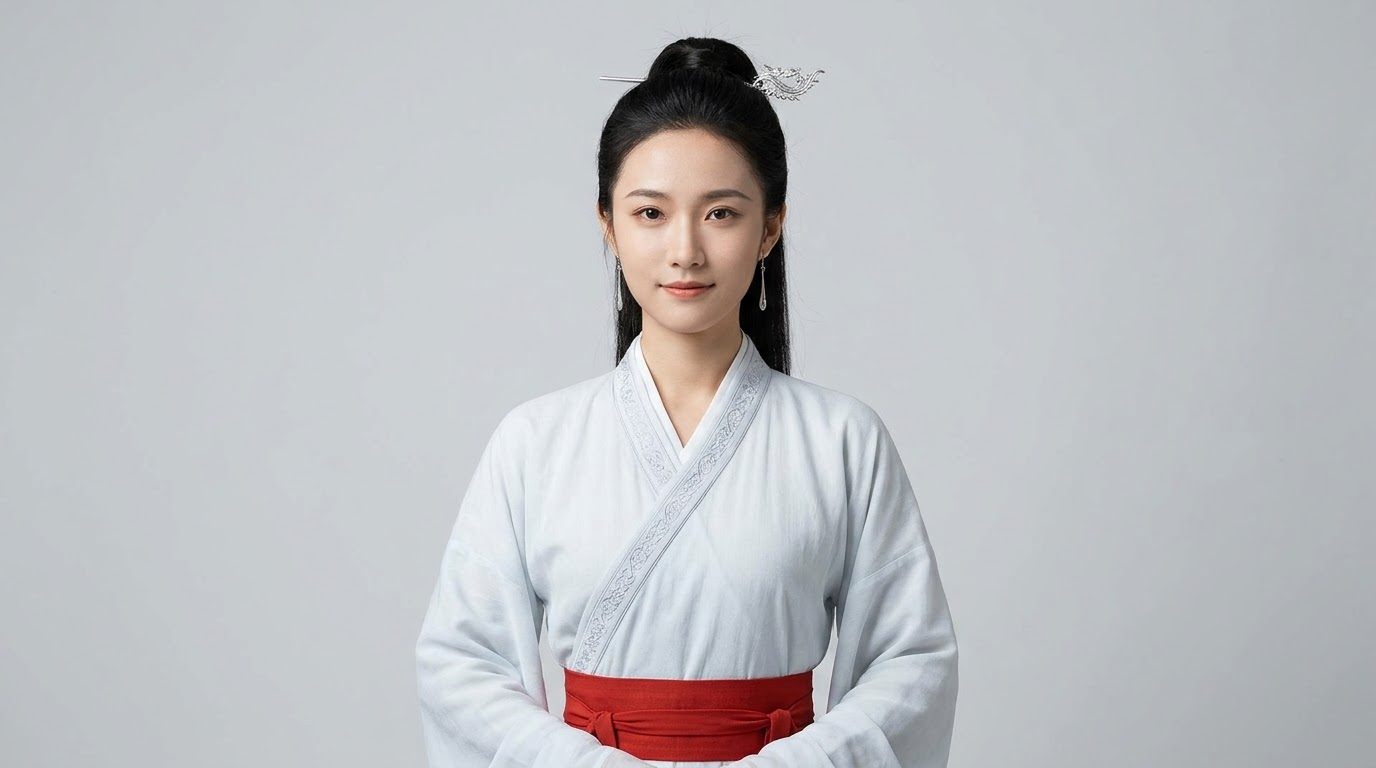
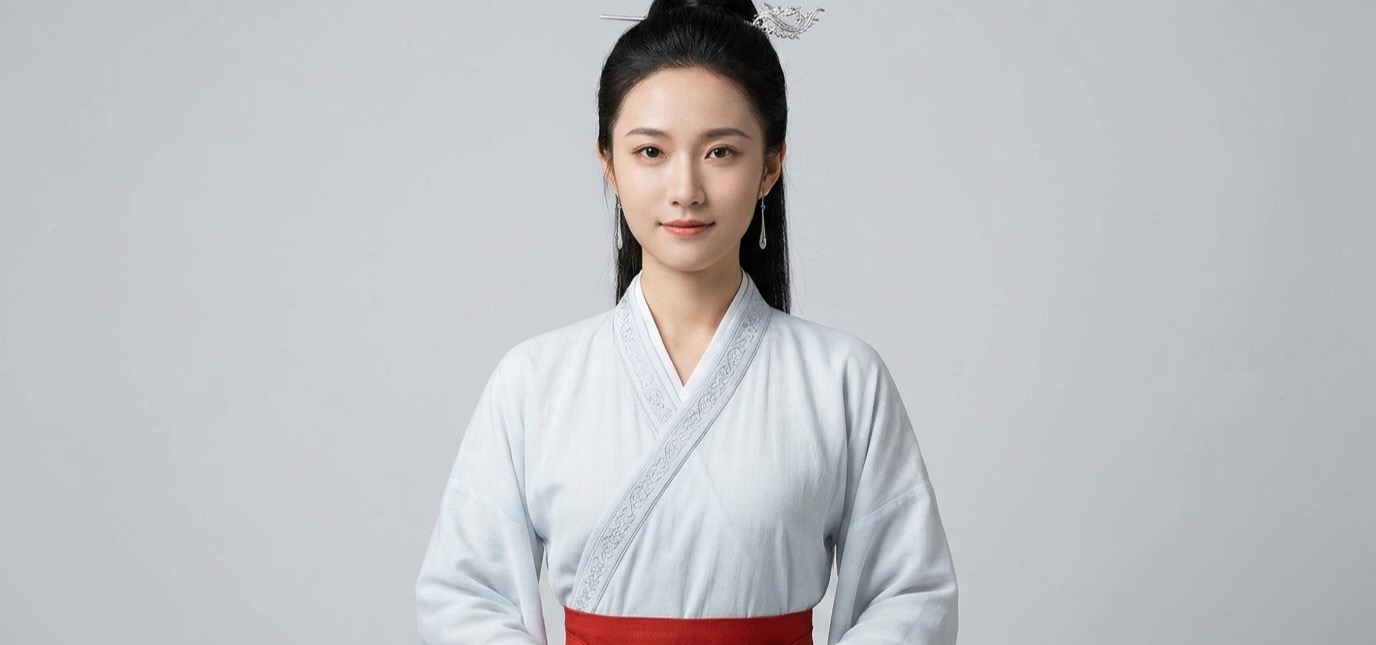
docs(test-log): v0.4 重写(旧轮退役) + inputs 参考图裁水印(84%高度, 原图备份)

Changed region(s): [[0.2812, 0.0, 0.7188, 1.0], [0.3125, 0.6512, 0.3438, 0.7442]]

diff --git a/docs/test-log.md b/docs/test-log.md
@@ -1,109 +1,21 @@
-# H3 测试数据册（test-log）
+# H3 测试数据册（test-log · v0.4 重写版 2026-11-22）
 
-> 用途：每次实测的时长/消耗/产物留档，_kernel 选型与成本模型的唯一数据源_。
+> 旧轮数据（D1'/D2' v2/PDD 时代）已随 v0.4 架构退役移除；历史见 git log 与 plan-nocomfy.md 归档节。
 > 记录纪律：跑完一条立刻补一行；会话收工（h3ctl down）后回填"会话 CU"。
-> CU 读数：colab status / 下站后余额差；耗时以 h3ctl gen 输出与 /status 为准。
 
 ## 字段说明
 
 | 字段 | 含义 |
 |---|---|
 | run | 会话内序号（首条=含模型装载，续条=热跑） |
-| 档案/臂 | weights_profile + 方案名（omni / pika / pdd / v2） |
-| 模式 | t2v / fl2v / ref2v |
-| 参数 | seed · 分辨率 · 帧数 · 参考图 |
-| 纯推理 | ComfyUI 采样耗时（/status progress 或日志 it/s × 步数） |
-| 端到端 | 提交→成片落地（含 TE 编码/VAE 解码） |
-| 会话 CU | 本次会话总消耗（下站后读数） |
+| 臂 | 配方（turbo8 / turbo4 / pika / …） |
+| 端到端 | 提交→成片落地（h3ctl gen 输出） |
+| 会话 CU | 本次会话总消耗（下站后读数；CLI 无余额接口时按时长估算） |
 
-## D1' 已归档数据（2026-11-22，详见 plan-nocomfy.md D1' 节）
+## v0.4 三模式多方实测（2026-11-22 · h3turbo 全抽屉一站 · A100-40GB）
 
-| run | 臂 | 模式 | 参数 | 纯推理 | 端到端 | 产物 |
-|---|---|---|---|---|---|---|
-| 1 | v2 | t2v | seed42 · 1344×768 · 124f | 103s | 236.5s（首条含装载） | outputs/d1shell_…/3.2MB |
-| 2 | pdd8 | t2v | 同上 | 103s | 312s（首条含装载） | outputs/d1pdd8_…/3.1MB |
-| 3 | pdd4 | t2v | 同上 | **47s** | ~2.2min | outputs/d1pdd4/4.7MB |
-| 会话 CU | — | — | — | — | **4.05** | 余额 168.32 |
-
-## D2'：ref2v 人物参考 A/B（Omni vs Pika，单档案分会话）
-
-> 统一条件：同人物参考图（ref_char_front.jpg + 可选侧脸）+ 场景图 · seed 42 ·
-> 1344×768 · 124f（5s）· ref_image_size=match · 同提示词。
-> 裁决维度：人物身份保持 / 服装细节 / 场景还原 / 运动自然度 / 音频。
-
-### 统一测试提示词（两臂逐字相同，2026-11-22 定稿 v2：国风人物 + 国风东方巨构）
-
-```
-subject_definitions:
-<Subject 1> is the person in <Picture 1>: fully_preserved face, black hair in an elegant updo with a silver phoenix hairpin, ivory-white hanfu robe with crimson waist sash.
-<Subject 2> is the setting in <Picture 2>: background_reference only, colossal oriental megastructure at golden hour.
-shot: The woman walks slowly forward along the wet stone steps, camera pushes in past her shoulder toward the pagoda, golden hour, cinematic.
-```
-
-### 会话 A：h3omni（OmniRef 8步 euler）· 2026-11-22 · gpu-a100-s-usc1c0-5eoi79afjnpa（A100-40GB）
-
-**启动分解（h3ctl up --wait h3omni h3ref）**：①建VM 45s → ②上传 15s → ③提交 3s →
-④服务就绪 7m04s（权重 55.2GB @ ~190MB/s，与装环境并行）→ ⑤隧道 20s → **总启动 8m06s**；
-gate 40GB 放行（门槛 34GB 修正后）；磁盘余量 236GB。
-（前置两次尝试失败：Colab 分配接口 503 三连 ×2 轮 + gate 70GB 误拦一次——已修，日志直出当场抓出）
-
-| run | 模式 | 参数 | 纯推理 | 端到端 | 会话 CU | 产物 | 备注 |
-|---|---|---|---|---|---|---|---|
-| 1 | ref2v | seed42 · 1344×768 · 124f · 2 参考图 | 采样至 95% 用 169s（含 Omni DiT 装载） | **4m00s**（job 238s） | 会话估 2.6 CU* | `outputs/__20261122_111623/omni_00001_.mp4` 3.56MB | 95%→100% 平台 70s = VAE 首装载+解码+编码段 |
-| 2 | ref2v | 同 seed42 重交 | —（同图缓存命中） | **7s** | 同上 | `outputs/omni_20261122_111715/` | ⚠ ComfyUI 同图缓存：同 seed 同输入秒回，非真实速度 |
-| 3 | ref2v | seed43（真实热跑） | 采样 138s | **2m19s**（139s） | 同上 | `outputs/omni_20261122_111959/omni_00002_.mp4` 3.16MB | 热跑基线 |
-
-### 会话 B：h3pika（Pika Flex 6步 lcm+ManualSigmas）· 同 VM 热切换（用户要求不关站对比）
-
-**切换分解（h3ctl switch h3pika h3ref）**：清 .setup_done → 增量下载 24GB（ref2va DiT 21.0GB +
-Pika LoRA 2.0GB，共享 TE/VAE 不重拉）→ symlink → 外壳重启 → **总切换 1m39s**，VM 不重建。
-（首版 switch 假成功一次：不清 marker 则 setup skip 不拉权重——已修）
-
-| run | 模式 | 参数 | 纯推理 | 端到端 | 会话 CU | 产物 | 备注 |
-|---|---|---|---|---|---|---|---|
-| 1 | ref2v | seed42 · 同上全同 | 采样至 95% 用 165s（含 ref2va DiT+LoRA 装载；VAE 已热=Omni 首跑遗产） | **2m56s**（176s） | 同会话总计 | `outputs/pika_20261122_112729/pika_00001_.mp4` 2.36MB | 解码段仅 10s（VAE 显存缓存命中） |
-| 2 | ref2v | seed43（真实热跑） | 采样 111s | **1m52s**（112s） | 同上 | `outputs/pika_20261122_112939/pika_00002_.mp4` 2.23MB | 6步 LCM vs Omni 8步：采样快 ~20% |
-
-> \* 会话 CU 估算：11:01–11:30 共 29min × 5.4 CU/h ≈ 2.6 CU（CLI 无余额接口，待用户网页核对回填；
-> 启动 8m + 切换 2m + 生成 10m + 余为调试/等待）。
-
-### 会话 C：h3pdd（PDD Ref2VA 4步）· 新 VM gpu-a100-s-usw4b0-2yakgvyye27x5（A100-40GB）
-
-**启动分解**：①建VM 19s → ②上传 45s → ③提交 3s → ④服务就绪 6m23s（权重 79.5GB：
-fl2va+ref2va 双底模 + PDD LoRA×2 + TE/VAE）→ ⑤隧道 7s → **总启动 7m29s**
-（⚠ 首跑前修一个 bootstrap 缺陷：symlink 线程异常被静默吞掉导致模型目录空——已加线程异常落日志+SETUP FAILED，e5f21ff）
-
-| run | 模式 | 参数 | 管线耗时(ComfyUI 口径) | 端到端 | 产物 | 备注 |
-|---|---|---|---|---|---|---|
-| 1 | ref2v | seed42 · 同 Omni/Pika 全同 | 289.66s（全链冷装载） | **4m57s** | `outputs/pdd_20261122_115106/pdd_00001_.mp4` 2.86MB | fingerprint ✓ "ref2va file on ref2va model"；nfe=4 → blocks=4×8, 258 lora modules, heads fused |
-| 2 | ref2v | seed43 热跑 | **130.94s** | **2m18s**（138s） | `outputs/pdd_20261122_115348/pdd_00002_.mp4` 3.21MB | 4 步未比 8 步快——参考条件开销吃掉步数优势 |
-
-**✅ 质量裁决（2026-11-22 用户肉眼三片）：三案同档，分不出高下 → 内核按任务路由（速度+资产效率定），见下表**
-
-**三方对照速览（ref2v · 真实热跑口径）**
-
-| | PDD 4步 | OmniRef 8步 | Pika Flex 6步 |
-|---|---|---|---|
-| 管线耗时（ComfyUI executed） | **131s** | 139s | **112s** |
-| CLI 端到端 | 138s | 139s | **112s** |
-| 冷启动/切换 | 总启动 7m29s（79.5GB） | 总启动 8m06s（55.2GB） | 热切换 1m39s（增量 24GB） |
-| 成片体积 | 2.86/3.21 MB | 3.56/3.16 MB | 2.36/2.23 MB |
-| 关键事实 | t2v 47s 的步数优势**无法迁移到 ref2v**（参考条件 ~84s 开销） | 官方 Ref2VA 蒸馏 | 最快，社区口碑身份保持 |
-
-> ref2v 的参考开销 ≈ 84s（PDD t2v 47s → ref2v 131s）：双参考图 TE 编码 + 参考序列过 DiT，
-> 步数从 8→4 只省采样段，省不回参考段。
-
-| | OmniRef 8步 | Pika Flex 6步 | 差 |
-|---|---|---|---|
-| 热跑端到端 | 139s | **112s** | Pika 快 19% |
-| 首条端到端 | 240s | 176s | Pika 快 27%（含装载口径不完全对称：Omni 首条含 VAE 冷装载） |
-| 成片体积 | 3.56/3.16 MB | 2.36/2.23 MB | Pika 偏小 ~30%（待用户裁决是否细节/码率差异） |
-| 质量 | 待用户裁决 | 待用户裁决 | 人物身份保持为第一判据 |
-
-## v0.4 官方对齐轮（h3turbo 全抽屉一站 · 三模式顺序：t2v → fl2v → ref2v）
-
-> 统一条件：1344×768 · 124f(5s) · seed42 首跑 / seed43 热跑（防同图缓存命中）· A100-40GB。
-> h3turbo 单 VM 承载全部臂（双底模 + 官方 turbo 抽屉 + Pika 双 LoRA）。
+> 统一条件：1344×768 · 124f(5s) · seed42 首跑 / seed43 热跑（防同图缓存命中）。
+> 会话 h3t：13:04–13:51（47min ≈ 4.2 CU 估）；裸 VM 7m23s + load h3turbo 6m20s(85GB) = 新架构全程 13.7min。
 
 ### ① 文生视频 t2v（同 prompt 同 seed）
 
@@ -118,7 +30,7 @@ fl2va+ref2va 双底模 + PDD LoRA×2 + TE/VAE）→ ⑤隧道 7s → **总启动
 
 | 臂 | 配方 | 首条端到端 | 热跑端到端 | 产物 | 备注 |
 |---|---|---|---|---|---|
-| turbo 8步 | fl2v turbo 8步 | 2m50s | 2m35s (155s) | fl2v_turbo8_00001/00002 (2.3/—MB) | DiT 已被 t2v 臂装热 |
+| turbo 8步 | fl2v turbo 8步 | 2m50s | 2m35s (155s) | fl2v_turbo8_00001/00002 (2.3MB) | DiT 已被 t2v 臂装热 |
 | turbo 4步 768p | fl2v turbo 4步 v1.0 768p | **1m31s** | **1m32s (92s) ⭐** | fl2v_turbo4_00001/00002 (2.7MB) | 官方 4步档，全场最快 |
 | pika 6步 | pika fl2va LoRA | 2m03s | 2m03s (123s) | fl2v_pika_00001/00002 (2.4MB) | |
 
@@ -129,27 +41,41 @@ fl2va+ref2va 双底模 + PDD LoRA×2 + TE/VAE）→ ⑤隧道 7s → **总启动
 | 臂 | 配方 | 首条端到端 | 热跑端到端 | 产物 | 备注 |
 |---|---|---|---|---|---|
 | turbo 4步 | **官方 ref2v turbo 4步 v0.1**（标准 LoRA 免自定义节点） | 3m27s（含 ref2va DiT 装载） | 2m14s (134s) | ref2v_turbo4_00001/00002 (2.8/2.9MB) | fingerprint 通过 |
-| pika 6步 | pika ref2va LoRA | —（D2' 2m56s 首条） | **1m47s (107s) ⭐**（本 VM 复测，D2' 112s 吻合） | ref2v_pika_00001 (2.2MB) | 同参同 seed |
+| pika 6步 | pika ref2va LoRA | —（D2' 首条 2m56s） | **1m47s (107s) ⭐**（本 VM 复测，D2' 112s 吻合） | ref2v_pika_00001 (2.2MB) | 同参同 seed |
 | omni 8步 | OmniRef DiT | —（D2' 4m00s） | 139s（D2' 实测） | omni_00002_ | 独立 DiT，本轮未重测 |
 
-**ref2v 判定：pika 仍最快（107s）**；官方 turbo 4步=134s ≈ PDD 头库 4步 131s（两种 4 步实现打平），
-说明 ref2v 参考开销墙对 turbo LoRA 同样成立，lcm 蒸馏调度（Pika）每步效率占优
+**ref2v 判定：pika 仍最快（107s）**；官方 turbo 4步=134s ≈ PDD 头库 4步 131s（两种 4 步实现打平）——
+ref2v 参考开销墙（~84s 固定成本）对 turbo LoRA 同样成立，lcm 蒸馏调度（Pika）每步效率占优
 
-### v0.4 三模式路由终表（热跑口径 · A100-40GB · 1344×768/124f · 2026-11-22 实测）
+### fl2v 无水印重生成（2026-11-22 下午）
+
+> 背景：本轮 fl2v 三片继承了帧图右下角 "Z.AI生成" 水印（帧图出 Z-Image）。
+> 处理：inputs 5 张参考图统一裁掉底部 16%（84% 高度，原图备份 inputs/orig_backup/）后重新生成。
+
+| 臂 | 首条端到端 | 热跑端到端 | 产物 | 备注 |
+|---|---|---|---|---|
+| turbo 8步 | 待测 | 待测 | — | |
+| turbo 4步 768p | 待测 | 待测 | — | |
+| pika 6步 | 待测 | 待测 | — | |
+
+## v0.4 三模式路由终表（热跑口径 · A100-40GB · 1344×768/124f · 2026-11-22）
 
 | 模式 | 最快 | 次快 | 数据 |
 |---|---|---|---|
 | t2v | **pika 6步 102s** | turbo 8步 134s | pika 快 24% |
 | fl2v | **turbo 4步 768p 92s** | pika 123s | 官方 turbo 反超 |
-| ref2v | **pika 6步 107s** | turbo 4步 134s ≈ PDD 131s | pika 蝉联 |
+| ref2v | **pika 6步 107s** | turbo 4步 134s ≈ PDD 131s(退役前数据) | pika 蝉联 |
 
-（质量裁决待用户看片：outputs/ 本轮全部成片已落地；turbo4 ref2v 与 pika ref2v 同参同 seed 直接对比）
+（质量裁决待用户看片：outputs/ 本轮全部成片已落地；fl2v 无水印版重生成后替换对比基线）
 
 ## 成本模型折算（随数据更新）
 
-| 臂 | CU/条（推算公式） | 100 CU 月产能 | 状态 |
+| 配方 | CU/条（热跑折算，5.4 CU/h × 时长） | 100 CU 月产能 | 状态 |
 |---|---|---|---|
-| v2 8步 t2v | 0.26 | ~380 | 实测 |
-| pdd 4步 t2v | 0.11 | ~700 | 实测 |
-| omni ref2v | 待测 | 待测 | D2' |
-| pika ref2v | 待测 | 待测 | D2' |
+| pika 6步 t2v/ref2v | ~0.19 / ~0.20 | ~500-550 | 实测 |
+| turbo 4步 fl2v | ~0.14 | ~700 | 实测 |
+| turbo 8步 t2v | ~0.25 | ~400 | 实测 |
+| omni 8步 ref2v | ~0.26 | ~380 | D2' 实测 |
+
+> 启动成本：裸 VM 7m23s(0.66 CU) + load 85GB 6m20s(0.57 CU) ≈ 1.2 CU/次全新冷启动；
+> 换配方（盘上已有）≈ 40s 纯换表 ≈ 0.04 CU。批量出片摊薄后单条成本如上。
